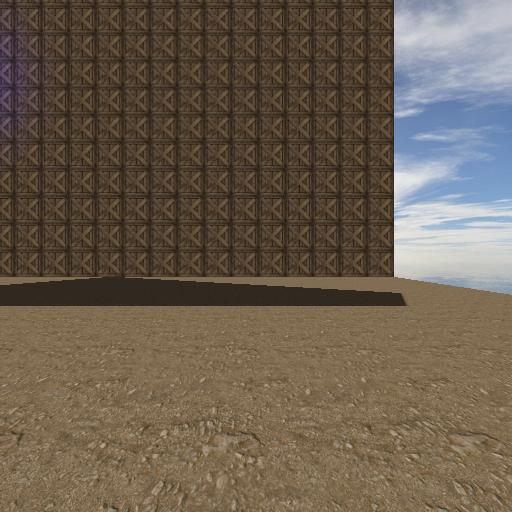
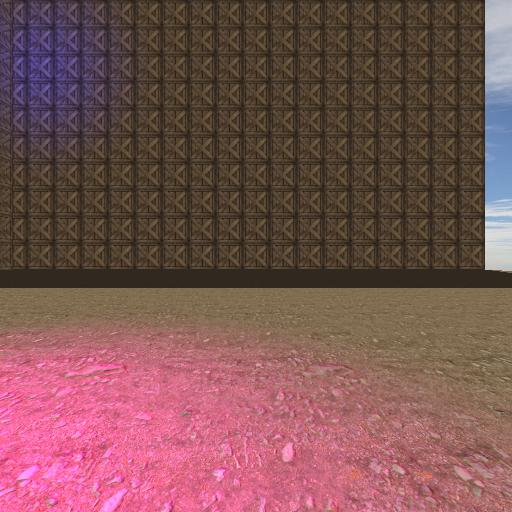
1st Cascade for csm

diff --git a/shadows.py b/shadows.py
@@ -1,5 +1,7 @@
 import glm
 
+epsilon = glm.epsilon()
+
 ndc_corners = [
     glm.vec4(-1, -1, -1, 1),
     glm.vec4(1, -1, -1, 1),
@@ -32,27 +34,43 @@ class ShadowRenderer():
         self.cascade_1_texture = self.app.mesh.texture.textures['cascade_1']
         self.cascade_1_fbo = self.ctx.framebuffer(depth_attachment=self.cascade_1_texture)
 
-    def render(self):
-        self.update_matricies()
+    def render(self, rendering_cubemap = False):
+        self.update_matricies(rendering_cubemap)
         self.cascade_1_fbo.clear()
         self.cascade_1_fbo.use()
         for obj in self.app.scene.objects.values():
             if obj.cast_shadow:
                 obj.render_shadow()
     
-    def update_matricies(self):
-        cascade_near, cascade_far = 0.1, 10
+    def update_matricies(self, rendering_cubemap):
+        cascade_near, cascade_far = 0.1, 15
         light_dir = self.app.light.sun.direction
         cascade1_m_proj = glm.perspective(glm.radians(self.app.camera.fov), self.app.camera.aspect_ratio, cascade_near, cascade_far)
-        corners = calculate_frustum_corners(self.app.camera.m_view, cascade1_m_proj)
-        #print(len(corners))
-        center = sum(corners) / len(corners)
-        radius = calculate_bounding_sphere(corners, center)
-        self.app.light.m_proj_light = glm.ortho(-radius, radius, -radius, radius, 0.1, 100)
-        self.app.light.m_view_light = glm.lookAt(center + 50 * light_dir, center + glm.vec3(0.001), glm.vec3(0, 1, 0))
+        
+        if rendering_cubemap == False:
+            m_view_camera = self.app.camera.m_view
+        else:
+            m_view_camera = self.app.cube_map_render_data['m_view']
+        
+        frust_verts = calculate_frustum_corners(m_view_camera, cascade1_m_proj)
+        center = sum(frust_verts) / len(frust_verts)
+        m_view_light = glm.lookAt(center + 50 * light_dir, center + epsilon, glm.vec3(0, 1, 0))
 
-        self.app.scene.objects['cas_1_centre_point'].pos = center
-        self.app.scene.objects['cas_1_centre_point'].scale = glm.vec3(radius) # m_moodel later updated by imgui
+        transformed_verts = []
+        for vert in frust_verts:
+            vert = glm.vec4(vert, 1)
+            vert = m_view_light * vert
+            transformed_verts.append(vert)
+        
+        x_verts = [vert.x for vert in transformed_verts]
+        y_verts = [vert.y for vert in transformed_verts]
+        min_x = min(x_verts)
+        max_x = max(x_verts)
+        min_y = min(y_verts)
+        max_y = max(y_verts)
+                
+        self.app.light.m_proj_light = glm.ortho(min_x, max_x, min_y, max_y, 0.1, 100)
+        self.app.light.m_view_light = m_view_light
 
     def destroy(self):
         self.cascade_1_fbo.release()

diff --git a/scene_renderer.py b/scene_renderer.py
@@ -5,6 +5,24 @@ import glm
 
 faces = ['right', 'back', 'left', 'front', 'top', 'bottom']
 
+epsilon = glm.epsilon()
+
+def get_view_matrix(position, face):
+    match face:
+        case 'right':
+            m_view = glm.lookAt(position, position + glm.vec3(1, 0, 0) + epsilon, glm.vec3(0, 1, 0))
+        case 'back':
+            m_view = glm.lookAt(position, position + glm.vec3(0, 0, 1) + epsilon, glm.vec3(0, 1, 0))
+        case 'left':
+            m_view = glm.lookAt(position, position + glm.vec3(-1, 0, 0) + epsilon, glm.vec3(0, 1, 0))
+        case 'front':
+            m_view = glm.lookAt(position, position + glm.vec3(0, 0, -1) + epsilon, glm.vec3(0, 1, 0))
+        case 'top':
+            m_view = glm.lookAt(position, position + glm.vec3(0, 1, 0) + epsilon, glm.vec3(0, 0, 1))
+        case 'bottom':
+            m_view = glm.lookAt(position, position + glm.vec3(0, -1, 0) + epsilon, glm.vec3(0, 0, -1))
+    return m_view
+
 class SceneRenderer:
     def __init__(self, app):
         self.app = app
@@ -34,29 +52,33 @@ class SceneRenderer:
         return texture_cube
     
     def render_cube(self, size):
+        cam_pos = self.app.camera.position # make sure center of cubemap is where cam is
         self.app.cube_map_render_data['rendering'] = True
-        cam_pos = self.app.camera.position # change to cubemap centre pos
-        self.app.cube_map_render_data['camera_pos'] = cam_pos
+        self.app.cube_map_render_data['camera_pos'] = cam_pos # tell objects states
 
         for face in faces:
             self.app.cube_map_render_data['face'] = face
+            self.app.cube_map_render_data['m_view'] = get_view_matrix(self.app.camera.position, face)
+            
+            self.app.shadow_renderer.render(True) # True, rendering with custom view matrix
+
             color_texture = self.app.ctx.texture(size, 3, dtype='f1')
             depth_texture = depth_texture = self.app.ctx.depth_texture(size)
             cube_fbo = self.app.ctx.framebuffer(color_attachments=[color_texture], depth_attachment=depth_texture)
             cube_fbo.clear()
             cube_fbo.use()
-            
+
             for obj in self.scene.objects.values():
-                obj.render_cube(cam_pos, face)
+                obj.render_cube()
+
             self.scene.basic_skybox.render()
 
             data = np.empty((size[0], size[1], 3), dtype=np.float32)
             data = cube_fbo.read()
             image = Image.frombytes('RGB', size, data=data)
-
             image = image.transpose(Image.FLIP_TOP_BOTTOM)
-
             image.save(f'cubemap_renderer/sharp-{face}.jpg', 'JPEG')
+
         self.app.cube_map_render_data['rendering'] = False 
 
         cubemap_texture = self.get_texture_cube()

diff --git a/testing.py b/testing.py
@@ -29,28 +29,37 @@ cube_verts = [
     glm.vec3(1, 1, 1),
 ]
 
-# Transform cube vertices using view matrix
 transformed_cube_verts = []
 for v in cube_verts:
     mvp = glm.vec4(v, 1.0) * m_view
     transformed_cube_verts.append(mvp)
 
-# Initialize Pygame
+min_x = min(v.x for v in transformed_cube_verts)
+max_x = max(v.x for v in transformed_cube_verts)
+min_y = min(v.z for v in transformed_cube_verts)
+max_y = max(v.z for v in transformed_cube_verts)
+
+AABB = [glm.vec2(min_x, min_y), glm.vec2(max_x, min_y), glm.vec2(min_x, max_y), glm.vec2(max_x, max_y)]
+
 pg.init()
 WIDTH, HEIGHT = 800, 800
 SCALE = 10
 screen = pg.display.set_mode((WIDTH, HEIGHT))
 screen_center = (screen.get_width() // 2, screen.get_height() // 2)
 
-# Set color for points
-point_color = pg.Color("red")
+red = pg.Color("red")
+black = pg.Color("black")
 
-# Function to draw a point on the screen (ignoring perspective)
 def draw_point(point):
-    # Offset point to center of the screen
     x = int(point.x * WIDTH / SCALE + screen_center[0])
-    y = int(-point.y * HEIGHT / SCALE + screen_center[1])  # Invert Y for screen coordinates
-    pg.draw.circle(screen, point_color, (x, y), 5)
+    if type(point) == glm.vec4:
+        y = int(-point.z * HEIGHT / SCALE + screen_center[1])
+        pg.draw.circle(screen, black, (x, y), 5)
+    else:
+        y = int(-point.y * HEIGHT / SCALE + screen_center[1])
+        pg.draw.circle(screen, red, (x, y), 10)
+
+    
 
 running = True
 while running:
@@ -58,12 +67,14 @@ while running:
         if event.type == pg.QUIT:
             running = False
 
-    # Clear screen
     screen.fill(pg.Color("white"))
 
-    # Draw all transformed points (ignoring perspective)
+    for point in AABB:
+        draw_point(point)
+
     for point in transformed_cube_verts:
         draw_point(point)
+
 
     # Update display
     pg.display.flip()

diff --git a/model.py b/model.py
@@ -164,8 +164,11 @@ class ExtendedBaseModel(BaseModel):
         self.program['static_lights[3].position'].write(glm.vec3(0, 2 + math.sin(self.iteras/100) * 2, 2))
         self.iteras += 1
 
-    def render_cube(self, cam_pos, face):
-        self.update_cubemap(cam_pos, face)
+    def render_cube(self):
+        self.update()
+        self.program['IBL_enabled'].value = 0
+        self.program['m_proj'].write(glm.perspective(glm.radians(90), 1, 0.1, 100))
+        self.program['m_view'].write(self.app.cube_map_render_data['m_view'])
         self.vao.render()
         self.undo_cupemap_updates()
 
@@ -188,6 +191,10 @@ class ExtendedBaseModel(BaseModel):
         self.program['m_proj'].write(self.camera.m_proj)
 
     def update_cubemap(self, cam_pos, face):
+        self.program['sun.colour'].write(self.app.light.sun.colour)
+        self.program['sun.direction'].write(self.app.light.sun.direction)
+        self.program['m_proj_light'].write(self.app.light.m_proj_light)
+        self.program['m_view_light'].write(self.app.light.m_view_light)
         self.update_pbr_values()
         self.depth_texture.use(location=0)
         self.diffuse.use(location=1)

diff --git a/light.py b/light.py
@@ -1,6 +1,7 @@
 import glm
 
 ortho_1_width = 20 # orhtho width
+epsilon = glm.epsilon()
 
 class Sun:
     def __init__(self, colour=(1, 1, 1)):
@@ -18,7 +19,7 @@ class Light:
         self.direction = self.sun.direction
         # matricies
         self.m_proj_light = self.get_proj_matrix()
-        self.m_view_light = glm.lookAt(glm.vec3(0, 0, 0) + 100 * self.direction, glm.vec3(0, 0, 0) + glm.vec3(0.001, 0.001, 0.001), glm.vec3(0, 1, 0))
+        self.m_view_light = glm.lookAt(glm.vec3(0, 0, 0) + 100 * self.direction, glm.vec3(0, 0, 0) + epsilon, glm.vec3(0, 1, 0))
 
     def get_proj_matrix(self):
         return glm.ortho(-ortho_1_width, ortho_1_width, -ortho_1_width, ortho_1_width, 0.1, 500)

diff --git a/graphics_engine.py b/graphics_engine.py
@@ -67,7 +67,7 @@ class GraphicsEngine:
         
         self.cube_map_render_data = {'rendering' : False,
                                      'camera_pos' : None,
-                                     'face' : None}
+                                     'm_view': None}
         
         self.past_swap_buffer = 0
 
@@ -107,6 +107,7 @@ class GraphicsEngine:
         self.pre_imgui_time = glfw.get_time()
         self.imgui_renderer.render()
         pre_swap_buffer = glfw.get_time()
+
         glfw.swap_buffers(self.window)
         self.past_swap_buffer = glfw.get_time() - pre_swap_buffer
 
